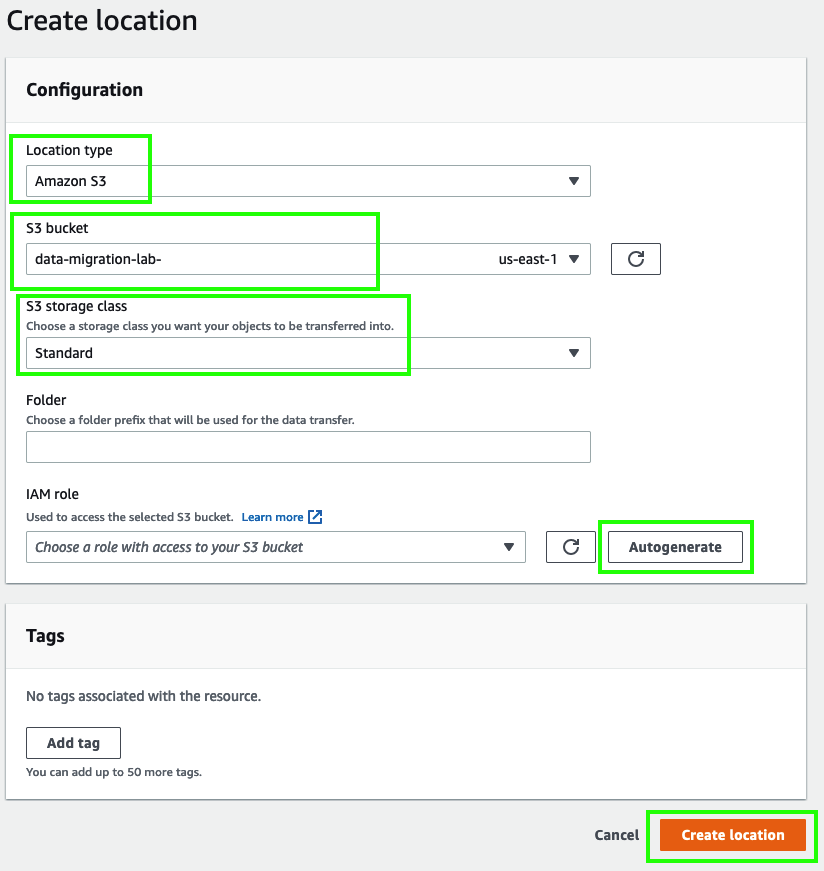
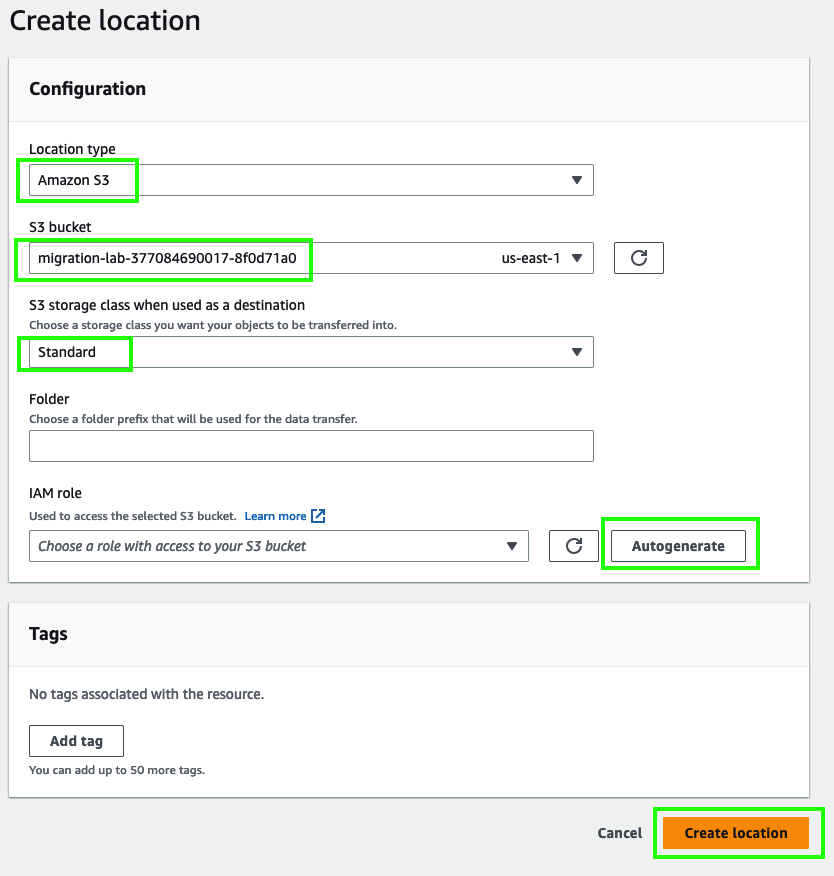
update

diff --git a/content/20_datasync/20_agente.md b/content/20_datasync/20_agente.md
@@ -23,58 +23,58 @@ https://console.aws.amazon.com/ec2/v2/home?region=us-east-1#LaunchInstanceWizard
 
 ![Proceed without a key pair](/static/images/ds/nokeypair.png)
 
-6. Haga clic en **Edit** en el apartado de **Network settings**.
-7. En **VPC**, seleccione la VPC **Lab-Migracion-datos-VPC**.
+6. Bajo el apartado de **Network settings** seleccione los siguientes parámetros:
 
-![VPC](/static/images/ds/requiredvpc.png)
+* VPC = **MigrationLabVPC**
+* Subnet = **Source Subnet**
+* Auto-assign public IP = **Enable**
 
-8. Bajo el apartado de **Auto-assign public IP** elija **Enable**.
+![VPC](/static/images/ds/networksettings.png)
 
-![Auto-assign public IP - Enable](/static/images/ds/auto-assign-publicip.png)
-
-9. En el apartado de **Firewall (security groups)** seleccione la opción de **Create security group** e ingrese :code[datasync-agente-sg]{showCopyAction=true} en el campo de **Security group name**.
+7. En el apartado de **Firewall (security groups)** seleccione la opción de **Create security group** e ingrese :code[datasync-agente-sg]{showCopyAction=true} en el campo de **Security group name**.
 
 ![Create securigy group](/static/images/ds/createsg.png)
 
-10. Bajo el apartado de **Inbound security groups rules**, elimine la regla que permite el acceso al puerto 22 (SSH) y agregue una regla nueva que habilite el acceso al puerto TCP 80 (HTTP) desde su dirección IP: 
+8. Bajo el apartado de **Inbound security groups rules**, elimine la regla que permite el acceso al puerto 22 (SSH) y agregue una regla nueva que habilite el acceso al puerto TCP 80 (HTTP) desde su dirección IP: 
 
 * Type = **HTTP**
 * Source type = **My IP**
 
 ![New rule](/static/images/ds/reglanueva.png)
 
-11. Haga clic en **Launch**.
-12. Haga clic en **View all instances**.
-
-![View all instances](/static/images/ds/viewallinstances.png)
-
-13. De regreso en la consola de EC2, espere a que la instancia de su agente indique **✔ Running** bajo el apartado de **Instance State** y **✔ 2/2 checks passed** bajo el apartado de **Status check**.
+9. Haga clic en **Launch instance**.
+10. Haga clic en **View all instances**.
+11. De regreso en la consola de EC2, espere a que la instancia de su agente indique **✔ Running** bajo el apartado de **Instance State** y **✔ 2/2 checks passed** bajo el apartado de **Status check**.
 
 ![Status check passed (2/2)](/static/images/ds/statuscheck.png)
 
 ::alert[Este paso puede tomar unos minutos.]{type="info"}
 
-14. Seleccione la casilla del agente de AWS DataSync, copie la dirección **IP PÚBLICA** y guárdela en un archivo de texto.
+12. Seleccione la casilla del agente de AWS DataSync, copie la dirección **IP pública (Public IPv4 address)** y guárdela en un archivo de texto.
 
-![IPs)](/static/images/ds/direccionip.png)
+![IP pública (Public IPv4 address)](/static/images/ds/direccionip.png)
 
-15. Dentro de la consola de AWS, haga clic en **Services** y diríjase al servicio de **DataSync**.
-16. Haga clic en **Agents** en el menú lateral izquierdo (también puede hacer clic en **Get started** si es la primera vez que utiliza el servicio).
-17. Haga clic en el botón de **Create agent**.
-18. Seleccione **Public service endpoints** in US East (N. Virginia).
+13. Dentro de la consola de AWS, haga clic en **Services** y diríjase al servicio de **DataSync**.
+14. Haga clic en **Transfer data**.
+15. Haga clic en **Agents** en el menú lateral izquierdo.
+
+![Menu - Agents)](/static/images/ds/agentsmenu.png)
+
+16. Haga clic en el botón de **Create agent**.
+17. Seleccione **Public service endpoints in US East (N. Virginia)** en el menú desplegable de **Endpoint type**.
 
 ![Public Endpoints)](/static/images/ds/publicendpoint.png)
 
-19. Bajo el apartado de **Activation key** selccione la opción de **Automatically get the activation key from your agent**.
-20. En el campo de **Agent address** ingrese la dirección **IP PÚBLICA** del agente de AWS DataSync que creó anteriormente.
-21. Haga clic en **Get key**.
+18. Bajo el apartado de **Activation key** selccione la opción de **Automatically get the activation key from your agent**.
+19. En el campo de **Agent address** ingrese la dirección **IP pública** del agente de AWS DataSync que creó anteriormente.
+20. Haga clic en **Get key**.
 
 ![Activation key)](/static/images/ds/activationkey.png)
 
-22. Ingrese :code[Agente AWS DataSync]{showCopyAction=true} en el campo de **Agent name**.
-23. Haga clic en **Create agent**.
-24. Haga clic en **Agents** en el menú lateral izquierdo y compruebe que su agente se encuentra activo (**Status = Online**).
+21. Ingrese :code[Agente AWS DataSync]{showCopyAction=true} en el campo de **Agent name**.
+22. Haga clic en **Create agent**.
+23. Haga clic en **Agents** en el menú lateral izquierdo y compruebe que su agente se encuentra activo (**Status = Online**).
 
 ![Agente en línea](/static/images/ds/agenteenlinea.png)
 
-25. Proceda al siguiente módulo.
+24. Proceda al siguiente módulo.

diff --git a/content/20_datasync/30_ubicacion.md b/content/20_datasync/30_ubicacion.md
@@ -12,37 +12,41 @@ Una vez que su agente ha sido creado, usted definirá las ubicaciones origen y d
 
 1. En el servicio de DataSync, haga clic en **Locations** en el menú lateral izquierdo.
 2. Haga clic en **Create location**.
-3. En **Location type** seleccione **Network File System (NFS)**.
-4. En **Agents** seleccione el agente de AWS DataSync que creó anteriormente.
-5. En **NFS Server** ingrese la **IP PRIVADA** de la instancia NFS que guardó en el editor de texto.
-6. En **Mount path** ingrese la siguiente ruta:
+3. Seleccione los siguientes parámetros:
+
+* Location type = **Network File System (NFS)**
+* Agents = **el agente de AWS DataSync que creó anteriormente**
+* NFS Server =  ingrese la dirección **IP privada** de la instancia NFS que guardó en el editor de texto.
+
+4. En **Mount path** ingrese la siguiente ruta:
 
 :::code{showCopyAction=true showLineNumbers=false language=java}
 /mnt/nfs
 :::
 
-7. Haga clic en **Create location**.
-
 ![Ubicación origen](/static/images/ds/origen.png)
+
+5. Haga clic en **Create location**.
 
 #### 2. Ubicación destino
 
-8. Haga clic de nuevo en **Locations** en el menú lateral izquierdo.
-9. Haga clic en **Create location**.
-10. En **Location type** seleccione **Amazon S3**.
-11. En **S3 bucket** seleccione el bucket que creó la plantilla de CloudFormation (data-migration-lab-XXXXXXXXXXXX-YYYYYYY).
-12. En **S3 Storage class** seleccione **Standard**.
+6. Haga clic de nuevo en **Locations** en el menú lateral izquierdo.
+7. Haga clic en **Create location**.
+8. Seleccione los siguientes parámetros:
+
+* Location type seleccione = **Amazon S3**.
+* S3 bucket = seleccione el bucket con la siguiente nomenclatura: **migration-lab-XXXXXXXXXXXX-YYYYYYY**
+* S3 Storage class = **Standard**
 
 ::alert[En el menú desplegable de **S3 Storage class** usted podrá ver que AWS DataSync le permite transferir datos directamente a cualquiera de las clases de almacenamiento de Amazon S3. Si, por ejemplo, usted requiere archivar datos históricos que no necesita acceder frecuentemente, puede transferir estos datos directamente a Amazon S3 Glacier o Amazon S3 Glacier Deep Archive.]{type="info"}
 
-13. En **IAM role** haga clic en **Autogenerate** para generar un rol que permita a AWS DataSync interactuar con su bucket.
-
-14. Haga clic en **Create location**.
+9. En **IAM role** haga clic en **Autogenerate** para generar un rol que permita a AWS DataSync interactuar con su bucket.
 
 ![Ubicación origen](/static/images/ds/destino.png)
 
-15. Haga clic en **Locations** y encontrará las dos ubicaciones que acaba de crear.
+10. Haga clic en **Create location**.
+11. Haga clic en **Locations**  en el menú lateral izquierdo y encontrará las dos ubicaciones que acaba de crear.
 
 ![Ubicaciones](/static/images/ds/locations.png)
 
-16. Proceda al siguiente módulo.
+12. Proceda al siguiente módulo.

diff --git a/content/20_datasync/10_configuracion.md b/content/20_datasync/10_configuracion.md
@@ -1,0 +1,59 @@
+---
+draft: false
+title: 1. Configuración del cliente NFS
+weight: 10
+---
+A continuación se conectará a la instancia cliente para montar el recurso compartido por el servidor NFS y así poder acceder a los datos contenidos en este recurso.
+
+1. Haga click en **Services** y posteriormente seleccione el servicio de **EC2**.
+2. Haga click en **Running instances**.
+3. Seleccione la casilla  **Cliente NFS*.
+4. Copie la dirección *IP privada (Private IPv4 addresses)* y guárdela en un archivo de texto ya que la usará más adelante.
+
+![Copiar dirección IP privada](/static/images/ds/ipprivada.png)
+
+5. Haga clic en el botón de **Connect**.
+
+![Connect to Linux Server](/static/images/ds/connect1.png)
+
+6. En la pantalla de **Connect to instance** haga clic en **Session Manager** y después en **Connect**.
+
+![Connect to NFS Client](/static/images/ds/connect2.png)
+
+7. Una vez conectado a su instancia cliente ejecute el siguiente comando sustituyendo el parámetro **NFSInstancePrivateIP** por la dirección IP correspondiente que guardó en el editor de texto:
+
+:::code{showCopyAction=true showLineNumbers=false language=java}
+sudo mount -t nfs NFSInstancePrivateIP:/mnt/nfs /home/ec2-user/nas
+:::
+
+::alert[Este comando montará un directorio compartido por la instancia que funge como servidor NFS.]{type="info"}
+
+8. Proceda a explorar el contenido de este directorio con los siguientes comandos:
+
+:::code{showCopyAction=true showLineNumbers=false language=java}
+sudo ls /home/ec2-user/nas
+:::
+:::code{showCopyAction=true showLineNumbers=false language=java}
+sudo ls /home/ec2-user/nas/baseballdatabank-master/
+:::
+:::code{showCopyAction=true showLineNumbers=false language=java}
+sudo ls /home/ec2-user/nas/baseballdatabank-master/core
+:::
+
+::alert[En este directorio compartido encontrará información estadística de baseball de los últimos 20 años. En este laboratorio usted migrará esta información histórica a un bucket de Amazon S3 utilizando AWS DataSync.]{type="info"}
+
+![EC2 CLI](/static/images/ds/explorenfs.png)
+
+9. Ejecute el siguiente comando:
+
+:::code{showCopyAction=true showLineNumbers=false language=java}
+aws ssm get-parameter --name /aws/service/datasync/ami --region us-east-1
+:::
+
+10. Copie el valor parámetro de **value** (sin las comillas) y guárdelo en un archivo de texto ya que lo utilizará en el siguiente módulo.
+
+![Copy AMI id](/static/images/ds/copyami-id.png)
+
+::alert[La ejecución de este comando le permite conocer la versión más reciente de la AMI del agente de AWS DataSync (ami-id).]{type="info"}
+
+11. Proceda al siguiente módulo.

diff --git a/content/20_datasync/50_migrardatos.md b/content/20_datasync/50_migrardatos.md
@@ -5,18 +5,18 @@ weight: 50
 ---
 Una vez que su tarea haya sido creada con todos los parámetros necesarios, deberá iniciar esta tarea para comenzar el proceso de migración de datos.
 
-1. Haga clic en **Tasks** en el menú lateral de la izquierda.
-2. Seleccione la casilla de su tarea.
+1. En el servicio de AWS DataSync, haga clic en **Tasks** en el menú lateral de la izquierda.
+2. Seleccione la casilla de la tarea que creó en el módulo anterior.
 3. Asegúrese de que el status de su tarea sea **Available**.
 3. Haga clic en el menú desplegable de **Actions**.
 
 ![Start task](/static/images/ds/iniciartarea.png)
 
-4. Haga clic en **Start**. Podrá ver como el status de su tarea cambió a **Running**. Espere unos minutos a que la tarea de migración termine y el status de su tarea cambie de nuevo a **Available**.
+4. Haga clic en **Start**. Podrá ver como el status de su tarea cambió a **Running**.
 
 ![Task running](/static/images/ds/tareaejecutando.png)
 
-5. Espere a que el status de la tarea cambie de nuevo a **Available**. Este cambio indicará que la tarea de migración ha concluido.
+5. Espere unos minutos a que la tarea de migración termine y el status de su tarea cambie de nuevo a **Available**. Este cambio indicará que la tarea de migración ha concluido.
 6. Haga clic en **History** bajo **Tasks** en el menú lateral izquierdo. Aquí podrá corroborar que su tarea de migración se ejecutó satisfactoriamente.
 
 ![Task history](/static/images/ds/tareahistory.png)
@@ -24,6 +24,6 @@ Una vez que su tarea haya sido creada con todos los parámetros necesarios, debe
 ::alert[Haga clic en el valor de **Execution ID** si desea conocer más detalles acerca de la ejecución de su tarea.]{type="info"}
 
 7. Haga clic en **Services** y posteriormente seleccione el servicio de **S3**.
-8. Haga clic en su bucket y corrobore que los archivos que migró se encuentran ahí.
+8. Haga clic en el bucket que usó para esta migración (**migration-lab-XXXXXXXXXXXX-YYYYYYY**) y corrobore que los archivos que migró con AWS DataSync se encuentran ahí.
 
 ![Bucket](/static/images/ds/bucket.png)

diff --git a/content/10_mgn/70_replicacion.md b/content/10_mgn/70_replicacion.md
@@ -46,8 +46,8 @@ Esta operación eliminará el servidor que fue lanzado previamente y dejará su 
 ![Servidor lanzado en modo prueba](/static/images/mgn/lanzado.png)
 
 17. Haga clic en **Services** y posteriormente seleccione el servicio de **EC2**.
-18. Seleccione la casilla de la instancia **Linux migrado**.
-19. Bajo el apartado de **Details** copie la dirección IP pública (Public IPv4 address) y péguela en su navegador y corrobore que, en esta ocación, se despliega un mensaje diferente al que se mostraba originalmente en el servidor de origen.
+18. Seleccione la casilla de la instancia **Servidor Web MIGRADO**.
+19. Bajo el apartado de **Details** copie la dirección **IP pública (Public IPv4 address)** y péguela en su navegador y corrobore que, en esta ocación, se despliega un mensaje diferente al que se mostraba originalmente en el servidor de origen.
 
 ::alert[Usted puede repetir estos pasos para llevar a cabo cuantas pruebas considere pertinentes previo a la migración final. Una vez que haya hecho las pruebas necesarias, deberá marcar sus servidores como listos para el trapaso (cutover).]{type="info"}
 

diff --git a/content/20_datasync/40_tarea.md b/content/20_datasync/40_tarea.md
@@ -5,7 +5,7 @@ weight: 40
 ---
 Ahora debe crear una tarea (task). En esta tarea usted definirá las ubicaciones origen y destino, y podrá configurar otros parámetros de la tarea si así lo desea.
 
-1. Haga clic en **Tasks** en el menú lateral izquierdo.
+1. Denntro del servicio de AWS DataSync, haga clic en **Tasks** en el menú lateral izquierdo.
 2. Haga clic en **Create task**.
 3. Seleccione la opción de **Choose an existing location**
 4. Bajo el menú desplegable de **Existing locations** seleccione el servidor NFS.

diff --git a/content/10_mgn/90_eliminar.md b/content/10_mgn/90_eliminar.md
@@ -1,5 +1,5 @@
 ---
-draft: false
+draft: true
 title: '9. Eliminar recursos'
 weight: 90
 ---
